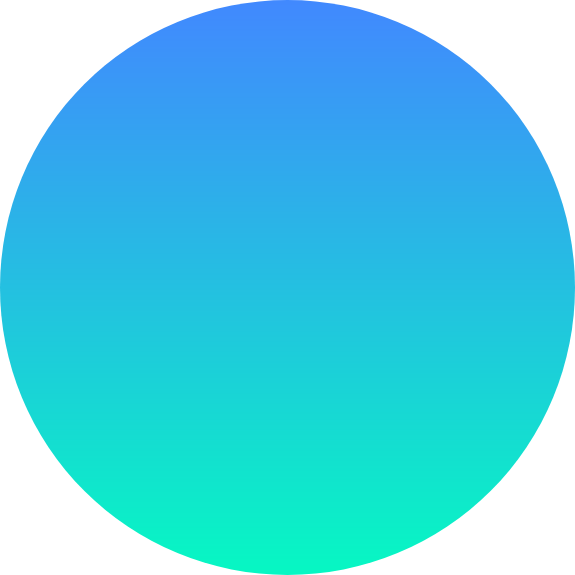
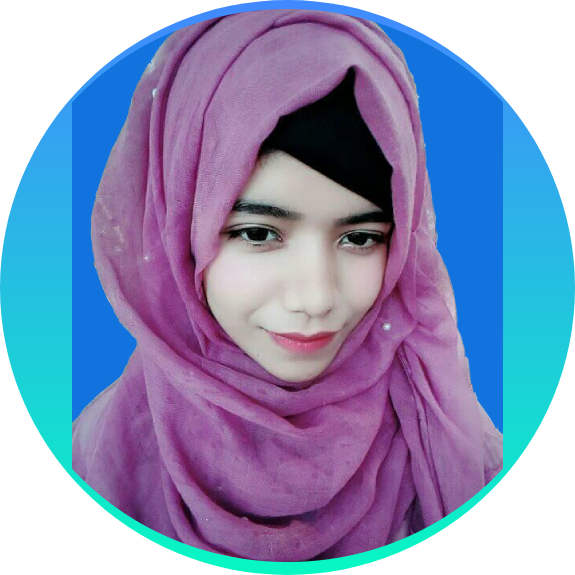
added 1st part

diff --git a/index1.html b/index1.html
@@ -1,0 +1,27 @@
+<!DOCTYPE html>
+<html lang="en">
+<head>
+    <meta charset="UTF-8">
+    <meta http-equiv="X-UA-Compatible" content="IE=edge">
+    <meta name="viewport" content="width=
+    , initial-scale=1.0">
+    <link rel="preconnect" href="https://fonts.googleapis.com">
+<link rel="preconnect" href="https://fonts.gstatic.com" crossorigin>
+<link href="https://fonts.googleapis.com/css2?family=Mukta:wght@200&display=swap" rel="stylesheet">
+    <title>Document</title>
+    <link rel="stylesheet" href="style1.css">
+</head>
+<body>
+    <section>
+        <div class="half-width">
+    <h1>Welcome to </h1>
+    <h1><span class="name-highight">Sumu's</span> World</h1>
+    <h3>World class professional web developer</h3>
+    <p>Seeking Web Developer work at ABC Company that allows for implementation of communication, service, and design skills to the programming essentials.</p>
+    </div>
+    <div class="half-width"><img src="images/image 1.png" alt=""></div>
+    
+    
+</section>
+</body>
+</html>

diff --git a/style1.css b/style1.css
@@ -1,0 +1,18 @@
+body{
+    font-family: 'Mukta', sans-serif;
+}
+h1{
+    font-size: 50;
+}
+.name-highight{
+    color: rgb(230, 43, 43);
+}
+.half-width{
+    width: 40%;
+    float: left;
+    margin-left: 5%;
+    padding: 2%;
+}
+.half-width img{
+    width: 100%;
+}
